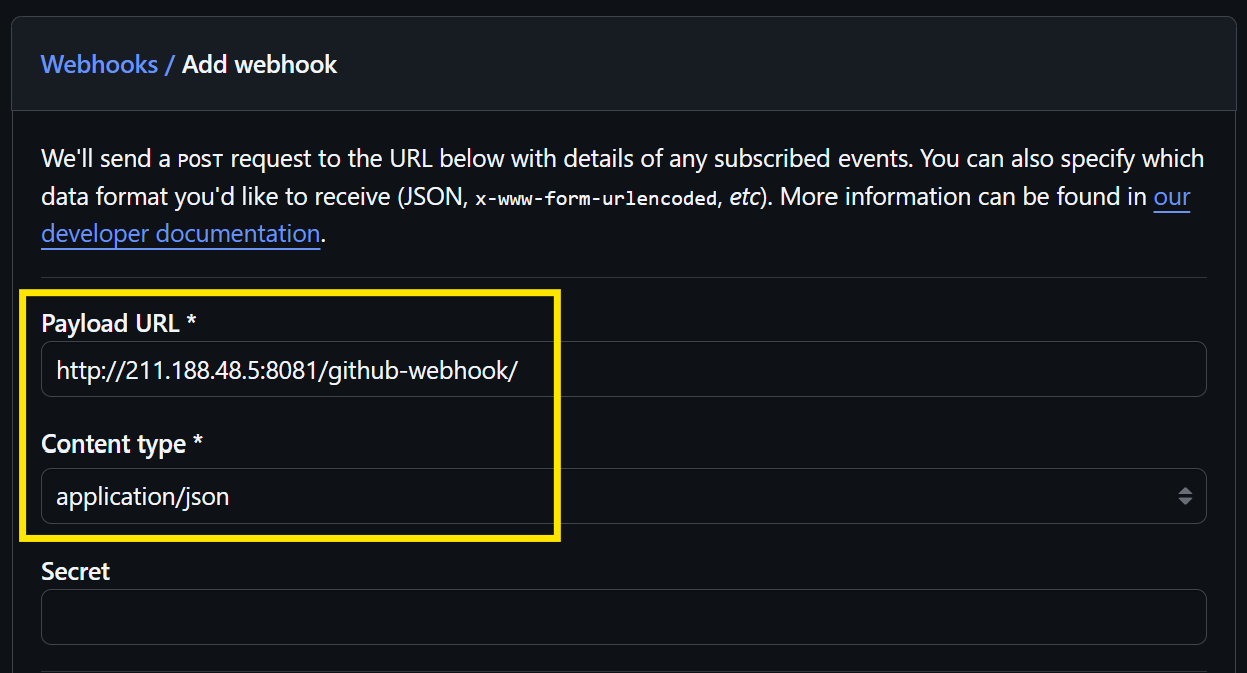
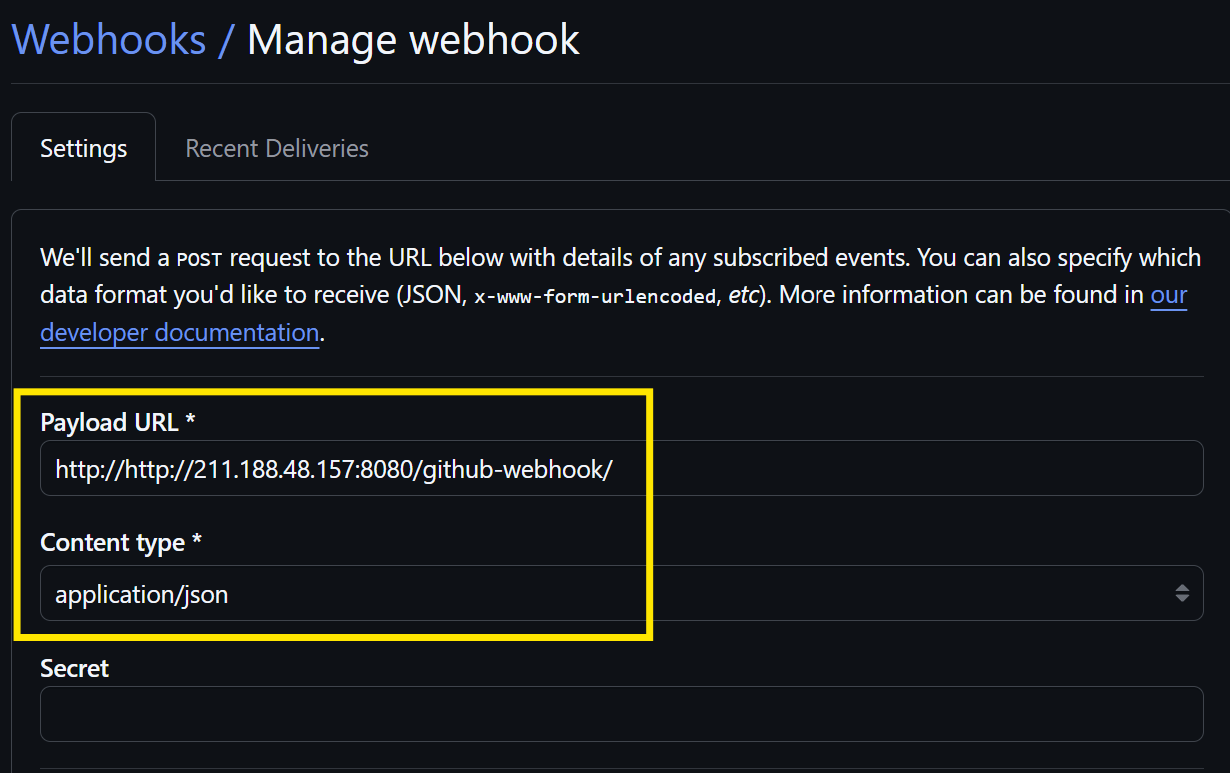
d

diff --git a/_posts/2024-11-26-jenkins-howtouse.md b/_posts/2024-11-26-jenkins-howtouse.md
@@ -761,7 +761,7 @@ a39e02fc8c88   backtoback/bitcamp:jenkins   "/usr/bin/tini -- /u…"   5 seconds
     <br>
     
     - **<span class="i1">Add webook</span> 클릭**
-        - **Payload URL    &nbsp; :   &nbsp;    `http://젠킨스서버주소:8081/github-webhook/`**
+        - **Payload URL    &nbsp; :   &nbsp;    `http://젠킨스서버주소:8080/github-webhook/`**
         - **Content type**    &nbsp; :   &nbsp;   <span class="i3">**`application/json`**</span>
         
         ![](image 27.png){: width="300" height="150" .left }  
@@ -1029,11 +1029,12 @@ a39e02fc8c88   backtoback/bitcamp:jenkins   "/usr/bin/tini -- /u…"   5 seconds
 
 
 
-<br>
 
 <br>
-
 <br>
+<br>
+
+
 
 ## (5) 스프링부트 애플리케이션 컨테이너 실행하기
 
